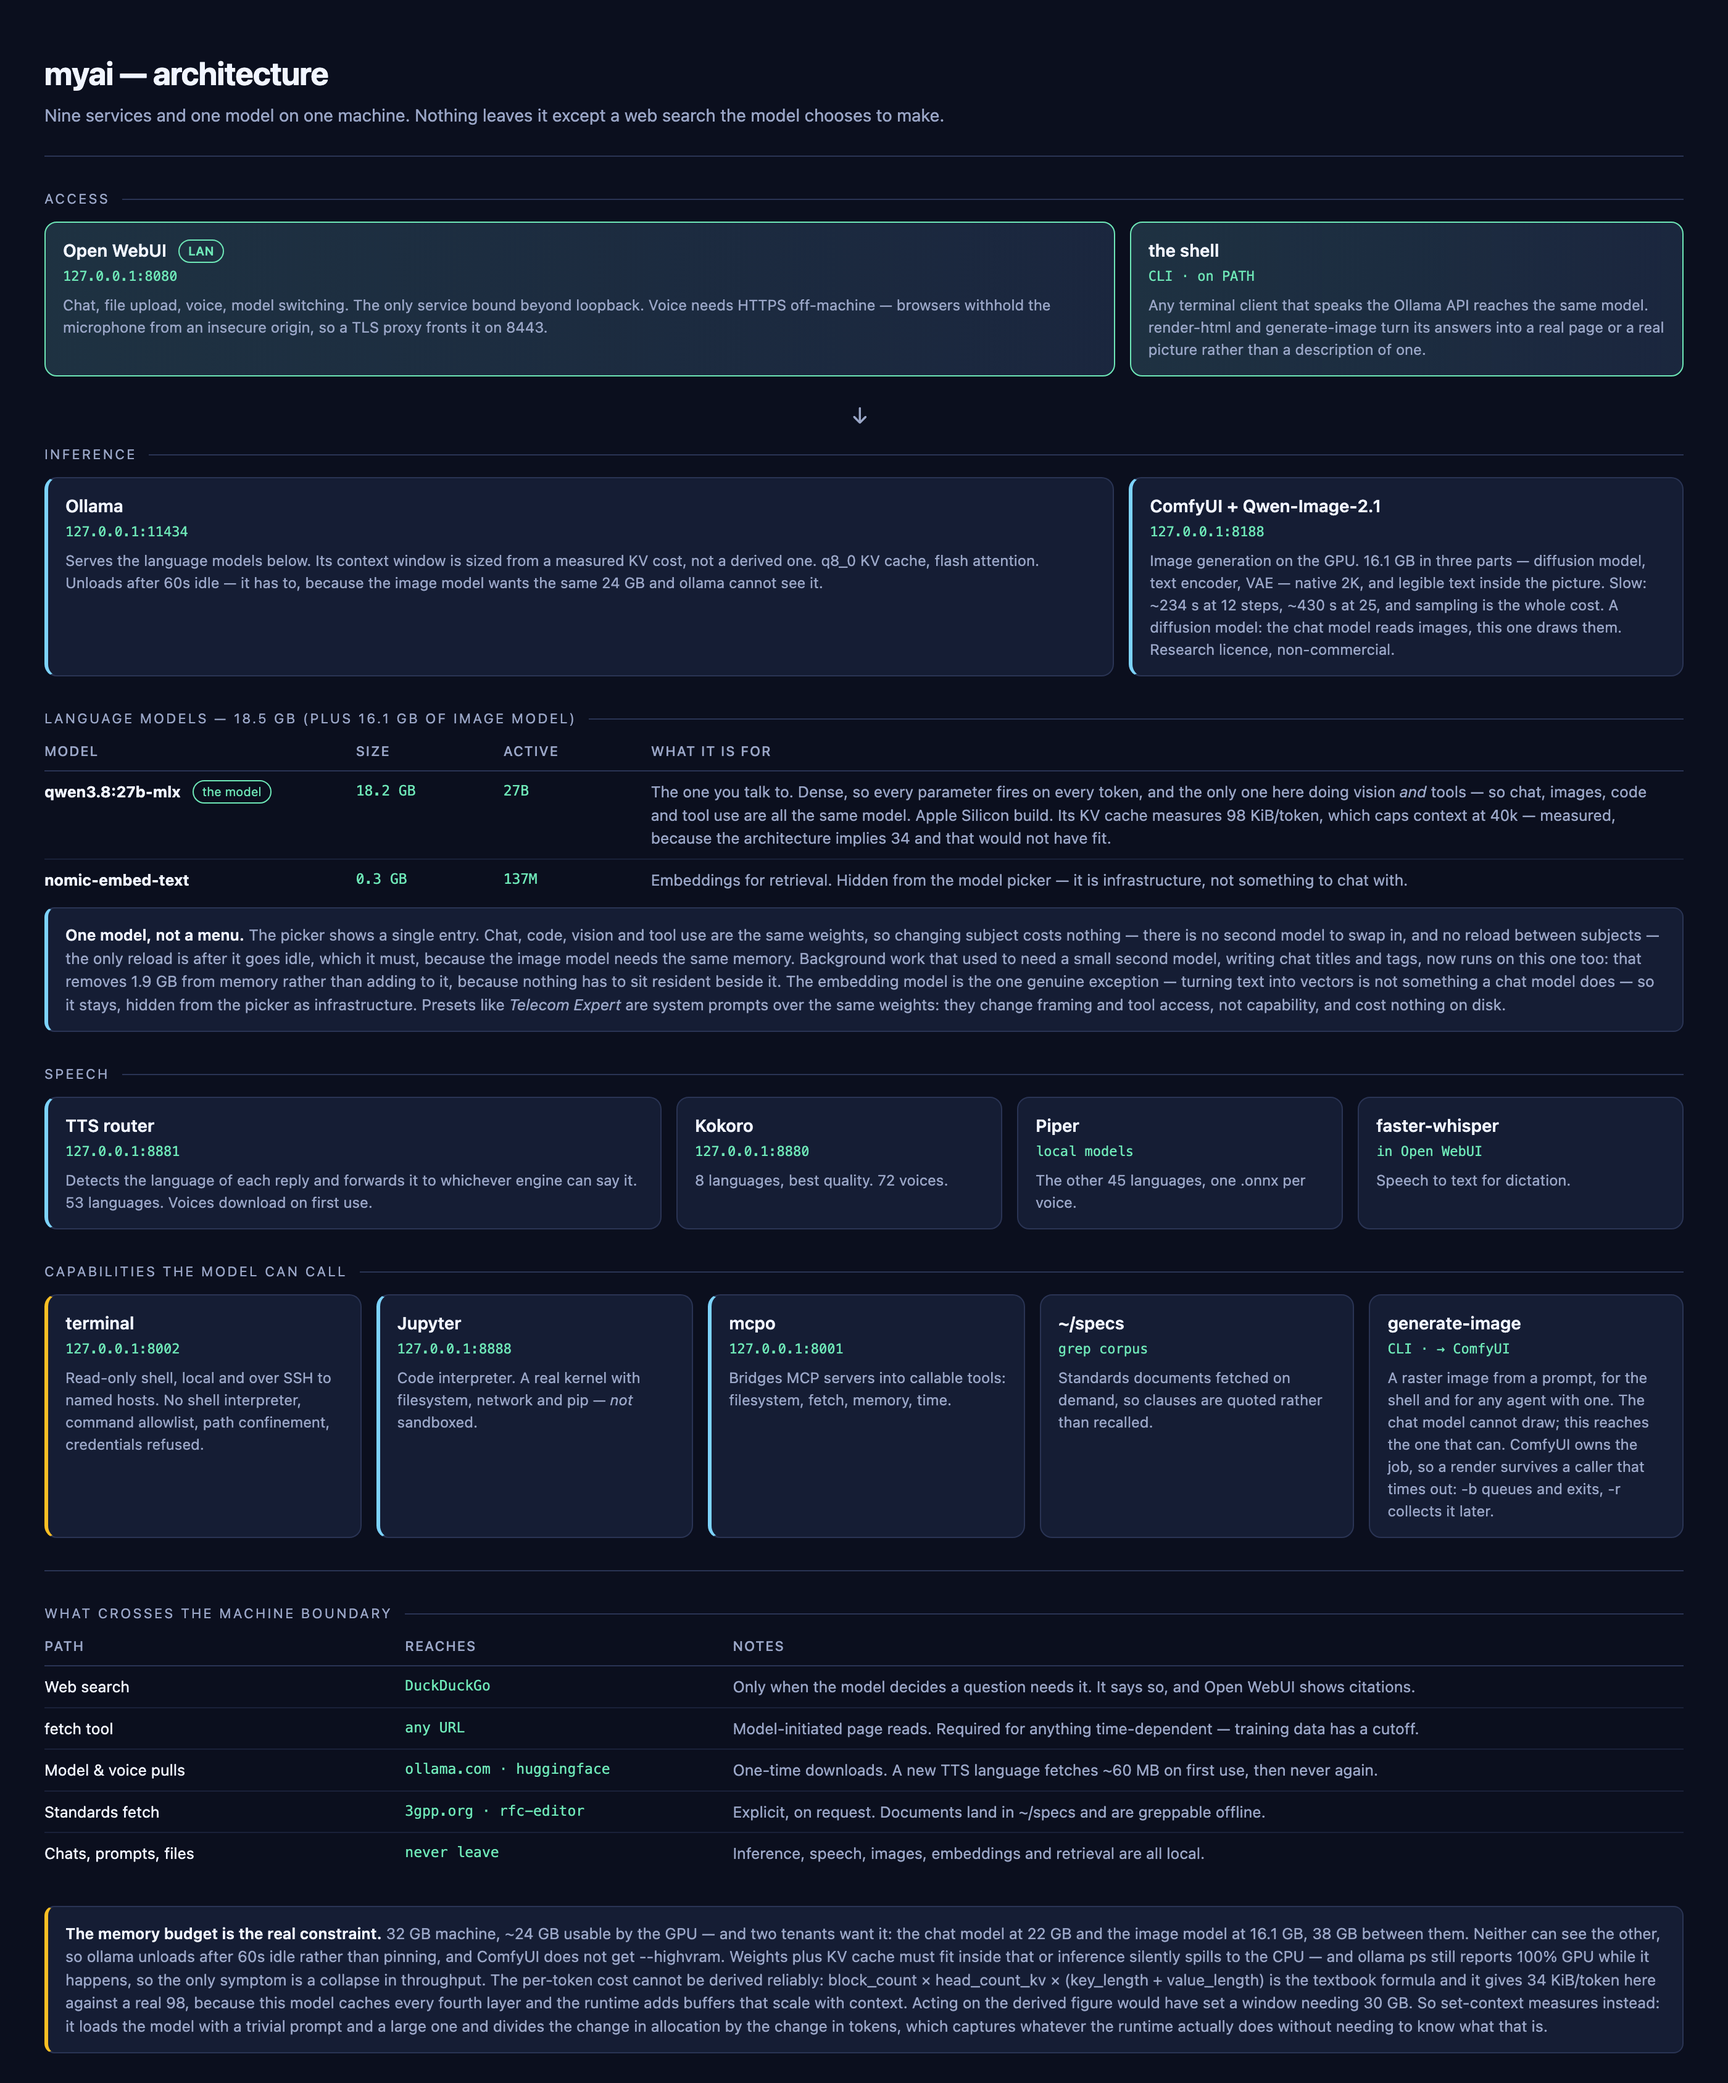
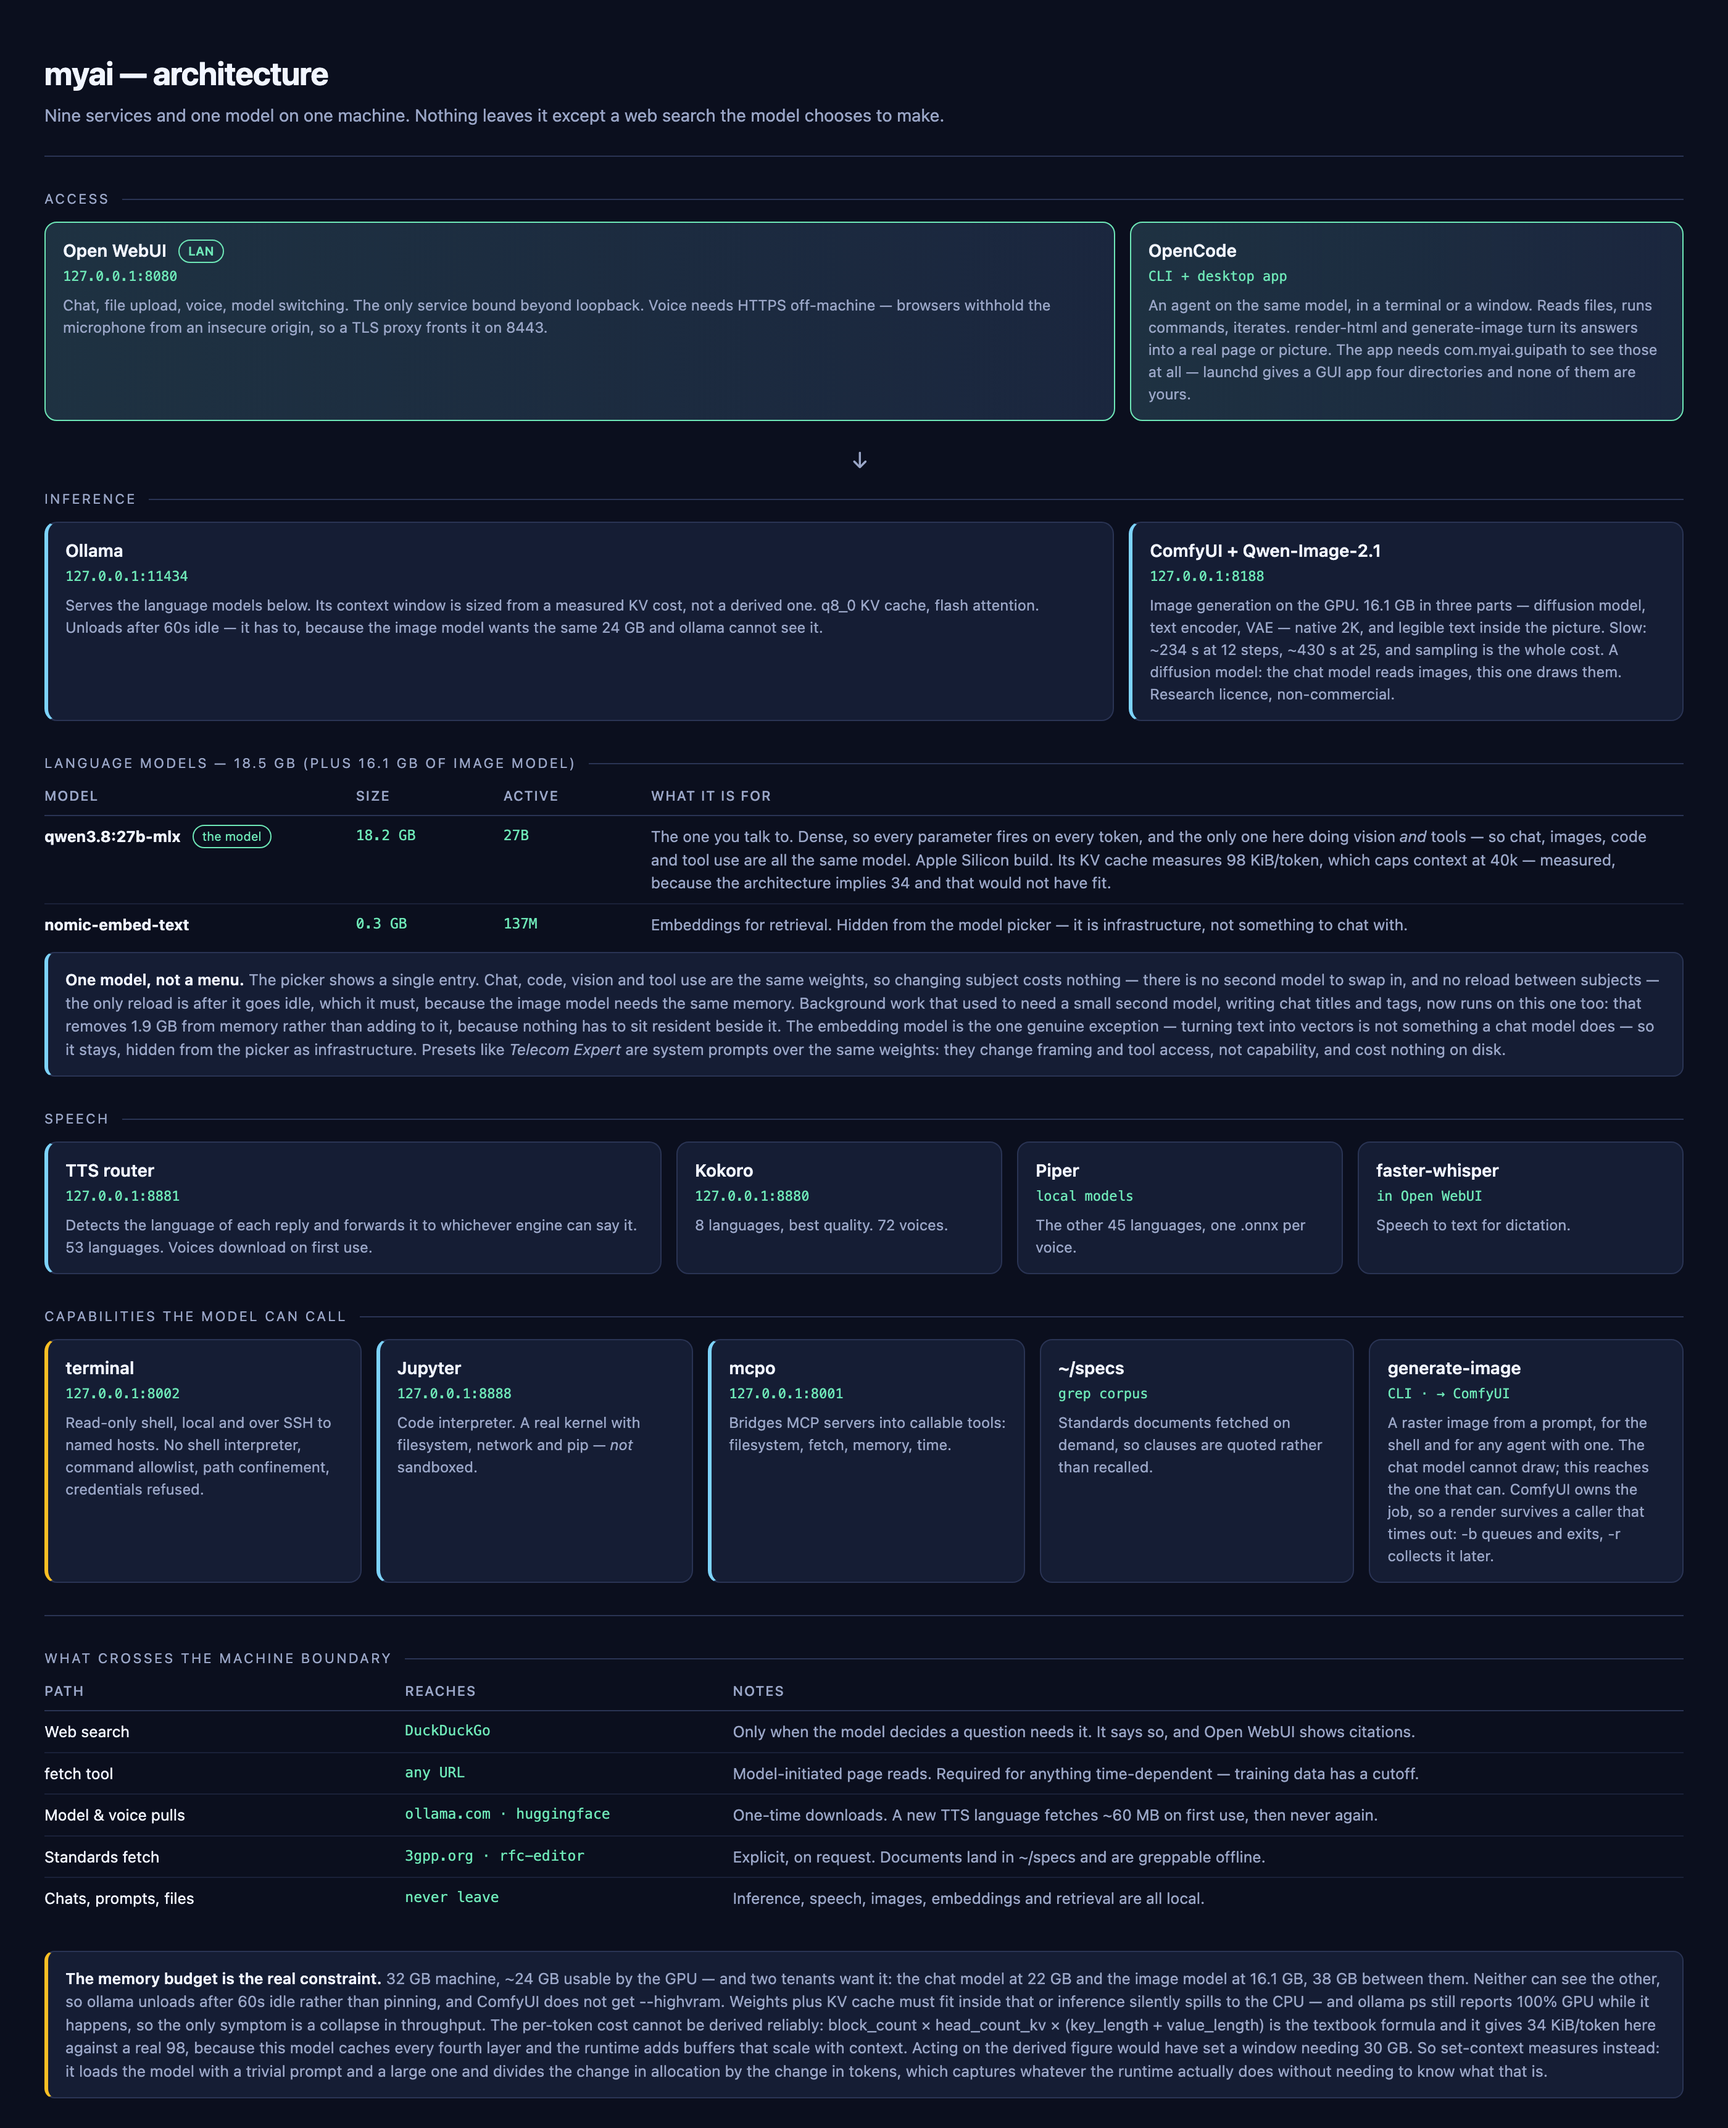
Document the OpenCode desktop app, and the PATH trap that makes it useless
The repo described a CLI and nothing else, while the machine had been
running the desktop app for hours. Both are now covered together, because
they share one config file and one model and differ less than the two
install paths suggest: not sandboxed, same tools, same ability to drive the
stack. The bundled build lacks todowrite, which changes how it tracks a long
job rather than what it can run.

The section worth having is the PATH one. A GUI app is started by launchd,
not by a shell, so it gets /usr/bin:/bin:/usr/sbin:/sbin and nothing else --
it reaches the model over HTTP and answers questions perfectly well while
being unable to run myai, generate-image, render-html or ollama, every one
of which lives somewhere else. Nothing reports this. It presents as an agent
that has decided not to use its tools.

com.myai.guipath publishes a full PATH into the GUI session at login and is
now installed with the rest, with a case arm of its own because it gates on
nothing: there is no program to check for. An app already open when it lands
keeps its old environment until restarted, which is said where someone will
hit it.

The install note also records that brew's formula lags npm, that the two
fight over the same path, and that uninstalling brew's copy removed ripgrep
here as an unused dependency.

GUIDE regains the terminal chapter it lost with goose -- when to reach for an
agent over the browser, and that a familiar interface does not make a local
model careful.

diff --git a/docs/architecture.html b/docs/architecture.html
@@ -83,9 +83,9 @@
       <div class="desc">Chat, file upload, voice, model switching. The only service bound beyond loopback. Voice needs HTTPS off-machine — browsers withhold the microphone from an insecure origin, so a TLS proxy fronts it on 8443.</div>
     </div>
     <div class="card entry">
-      <div class="name">the shell</div>
-      <div class="port">CLI · on PATH</div>
-      <div class="desc">Any terminal client that speaks the Ollama API reaches the same model. <span class="mono">render-html</span> and <span class="mono">generate-image</span> turn its answers into a real page or a real picture rather than a description of one.</div>
+      <div class="name">OpenCode</div>
+      <div class="port">CLI + desktop app</div>
+      <div class="desc">An agent on the same model, in a terminal or a window. Reads files, runs commands, iterates. <span class="mono">render-html</span> and <span class="mono">generate-image</span> turn its answers into a real page or picture. The app needs <span class="mono">com.myai.guipath</span> to see those at all — launchd gives a GUI app four directories and none of them are yours.</div>
     </div>
   </div>
 </div>

diff --git a/README.md b/README.md
@@ -994,19 +994,51 @@ chats.
 
 ---
 
-## OpenCode — the same stack from your terminal
+## OpenCode — the same stack outside the browser
 
-Open WebUI is a browser. OpenCode is an agent in your shell: it reads files, runs commands,
-edits code and iterates, driven by the same local model. Optional, and nothing else depends
-on it.
+Open WebUI is a browser tab. OpenCode is an agent that reads files, runs commands, edits code
+and iterates, driven by the same local model. It comes two ways, and they share one config.
 
 ```bash
-brew install opencode                      # macOS
-npm install -g opencode-ai                 # Linux, or any platform with node
+npm install -g opencode-ai        # the CLI
 ```
 
-It does not find Ollama on its own — it needs the provider declared. `install.sh` writes
-this to `~/.config/opencode/opencode.json` if you have none:
+> Homebrew also carries it, but the formula lags: at the time of writing brew had 1.18.30
+> against npm's 1.18.32. Pick one — they both install to `/opt/homebrew/bin/opencode` and
+> npm refuses to overwrite brew's copy. If you switch from brew to npm, `brew uninstall
+> opencode` first, and watch what goes with it: it took `ripgrep` out as an unused
+> dependency here.
+
+The **desktop app** is a separate download from opencode.ai and bundles its own copy of the
+same binary. Not sandboxed, same tools — `bash`, `read`, `write`, `edit`, `glob`, `grep`,
+`patch`, `task`, `webfetch` — so it drives the stack exactly as the CLI does. The one
+difference found: the bundled build has no `todowrite`, which changes how it tracks a long
+job, not what it can run.
+
+### The desktop app cannot see your tools until you fix PATH
+
+This is the part that costs an afternoon. A GUI app is launched by launchd, not by your
+shell, so it inherits:
+
+```
+PATH=/usr/bin:/bin:/usr/sbin:/sbin
+```
+
+Nothing else. It can reach the model over HTTP and happily answer questions, while being
+unable to run `myai`, `generate-image`, `render-html` or even `ollama` — every one of which
+lives in `~/.local/bin` or `/opt/homebrew/bin`. It does not fail loudly; it just behaves as
+though the tools do not exist.
+
+`install.sh` fixes this on macOS with the `com.myai.guipath` launch agent, which publishes a
+full PATH into the GUI session at login. `launchctl setenv PATH …` does the same for the
+current session but does not survive a reboot.
+
+**Restart the app after installing it** — a running app keeps the PATH it started with.
+
+### Pointing it at the local model
+
+Neither form discovers Ollama on its own. `install.sh` writes this to
+`~/.config/opencode/opencode.json` if you have none, and the app reads the same file:
 
 ```json
 {
@@ -1036,9 +1068,12 @@ that number — see [Context length](#context-length).
 
 ```bash
 opencode                       # the TUI, in whatever directory you are in
-opencode run "what does this repo do"    # one-shot, no TUI
+opencode run "what does this repo do"    # one-shot, no TUI — this is what scripts use
 opencode models                # confirm the local model is registered
 ```
+
+The app is a window; the CLI is a pipe. `opencode run` composes into scripts and cron, which
+is the practical reason to keep both.
 
 ### AGENTS.md — what the agent knows before you say anything
 

diff --git a/GUIDE.md b/GUIDE.md
@@ -244,6 +244,32 @@ explicit error handling, and dislike preamble" — and it persists.
 
 ---
 
+## Working outside the browser
+
+Open WebUI is one way in. **OpenCode** is the other: the same model as an agent that reads
+your files, runs commands and iterates — in a terminal, or in a desktop window.
+
+```bash
+opencode                                  # a session in the current directory
+opencode run "summarise what changed today"
+```
+
+It is the right tool when the answer depends on your machine rather than on the model's
+knowledge: what is in these files, what is this service doing, what broke. It can run the
+stack's own commands — `myai status`, `myai doctor`, `generate-image`, `fetch-specs` — so
+"is the stack healthy?" is a question it answers by looking, not by guessing.
+
+**If it claims it cannot run something, PATH is the usual reason** — a desktop app launched
+from the Dock starts with four directories and none of them contain these tools. That is what
+the `com.myai.guipath` launch agent fixes, and an app that was already open when it was
+installed needs restarting before it notices.
+
+**It is the same model, so it has the same failure modes.** A familiar interface does not
+make a 27B local model careful: it will still produce a confident clause number it never
+checked. The instructions in `AGENTS.md` push against that — verify before asserting, grep
+the spec before citing it — but the habit of asking "where did that come from?" matters more
+than the file does.
+
 ## Getting better answers
 
 **Pick the right model.** The single biggest lever. See the table above.
